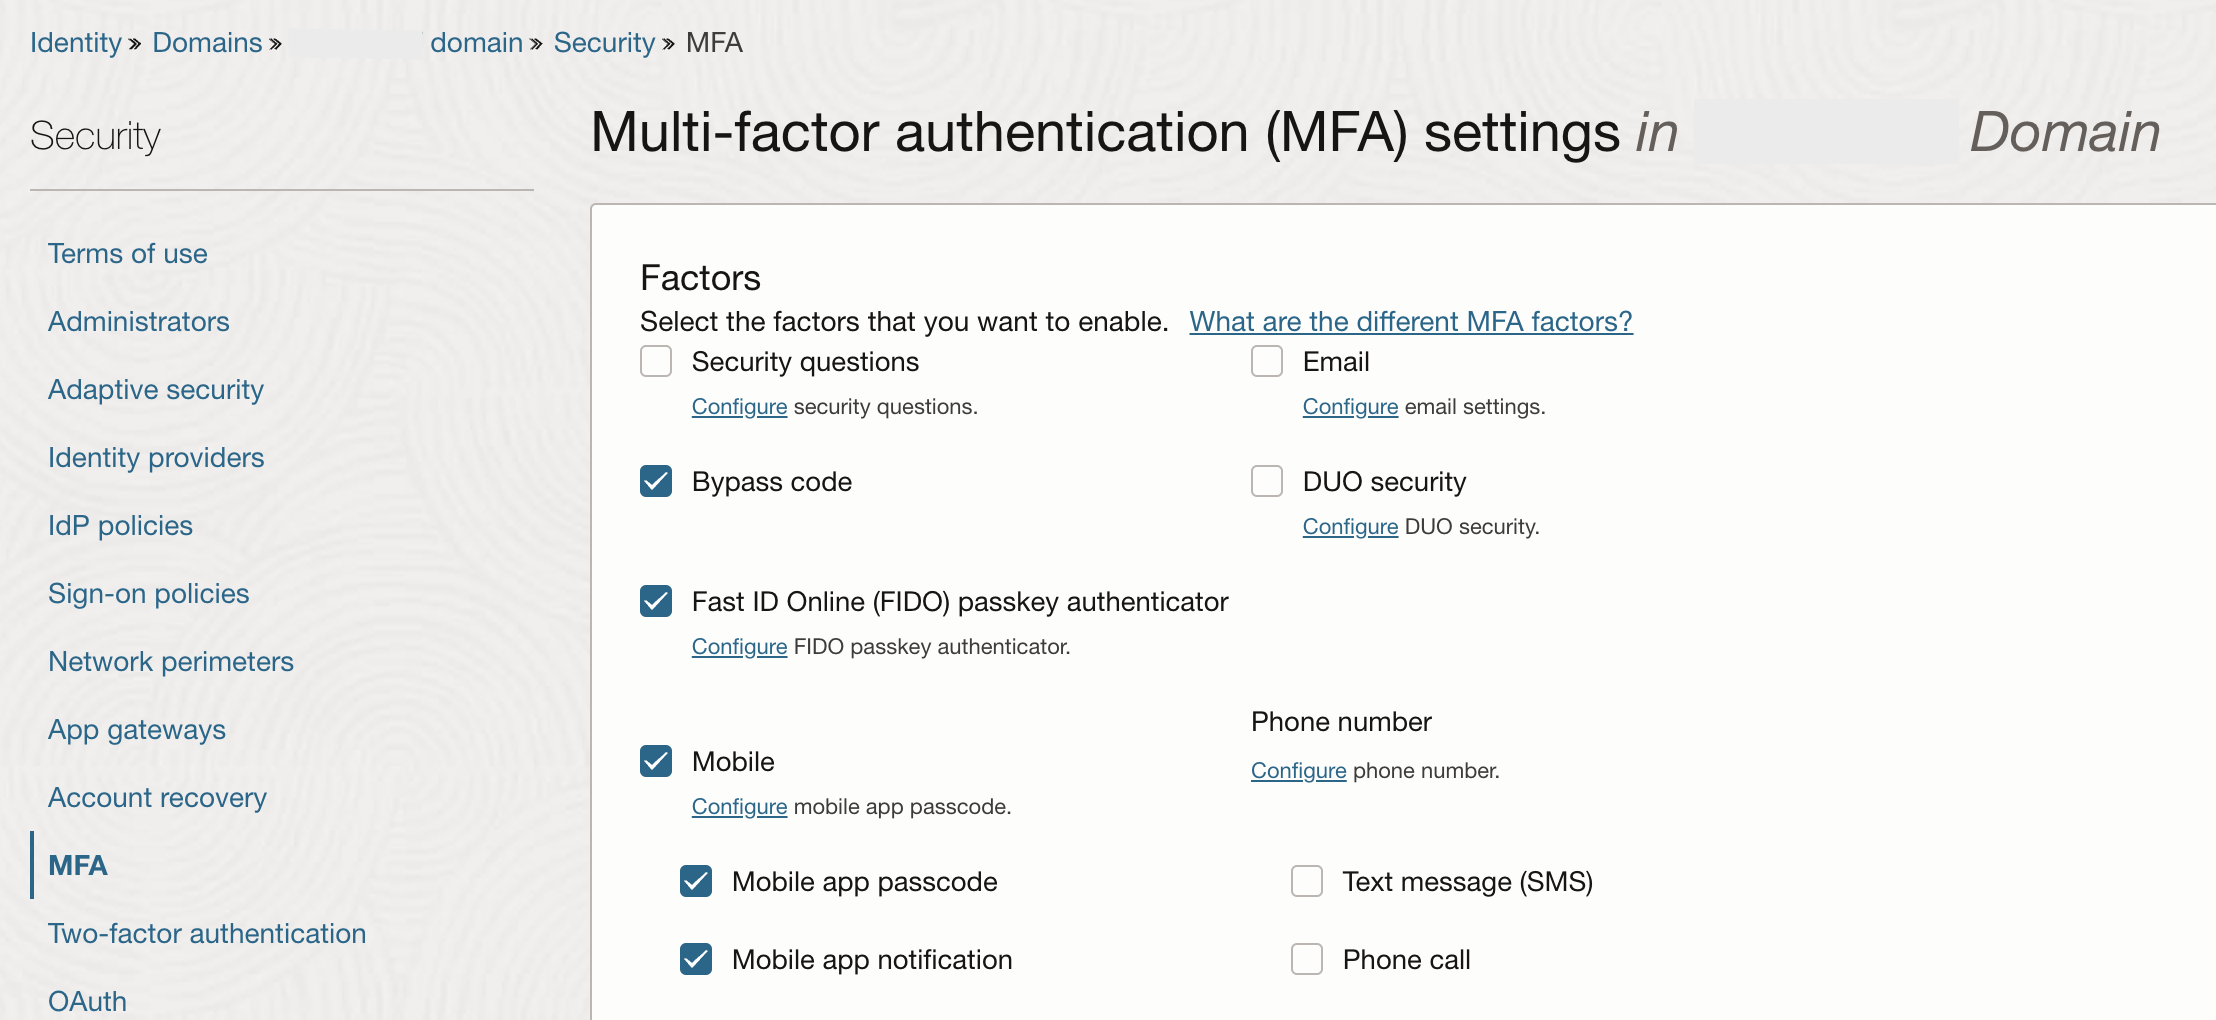
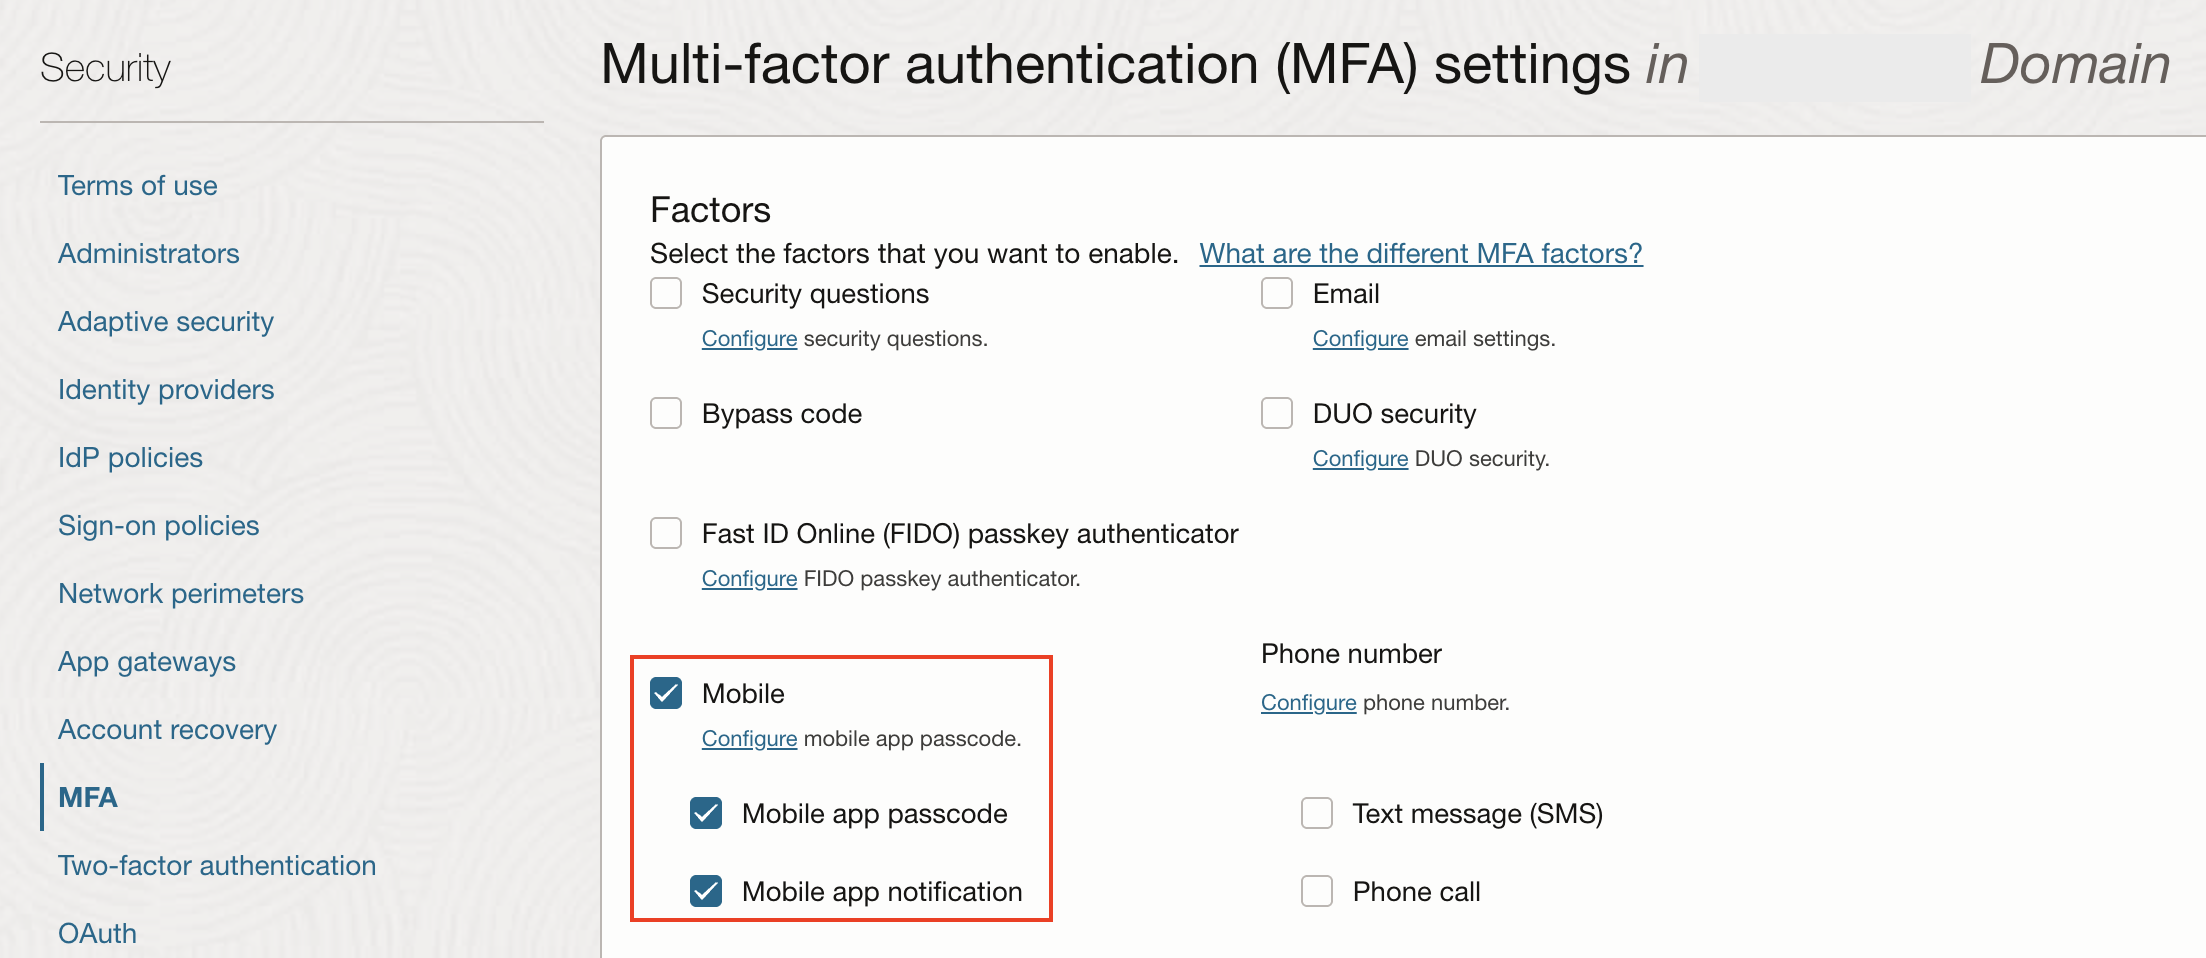
Updated the files as per feedback

diff --git a/federatedazure.md b/federatedazure.md
@@ -123,14 +123,16 @@ Search for Oracle Cloud Infrastructure Console and select it.
     
     <img src= "images/azure6.png" alt="Domain2" style="border: 1px solid black;">
 
-7. Click Get started and change the Provisioning Mode to **Automatic**.
+7. Click Get started:
 
-8. Under Admin Credentials, Enter the **Tenant URL**. The tenant URL is the OCI IAM Domain URL noted in the previous steps followed by **/admin/v1** 
-That is, the tenant URL will be in the following format : 
-    ```
-    https://<domainURL>/admin/v1
-    ```
-9. Enter the base 64 encoded secret token generated in the previous steps.
+    * Change the Provisioning Mode to **Automatic**.
+    
+    * Under Admin Credentials, Enter the **Tenant URL**. The tenant URL is the OCI IAM Domain URL noted in the previous steps followed by **/admin/v1** 
+    That is, the tenant URL will be in the following format : 
+        ```
+        https://<domainURL>/admin/v1
+        ```
+    * Enter the base 64 encoded secret token generated in the previous steps.
 
     <img src= "images/azure7.png" alt="Domain2" style="border: 1px solid black;">
 
@@ -212,7 +214,7 @@ Under Mappings, click **Provision Microsoft Entra ID Groups**
     * Value/Expression : Refer to the **Value** column from the User Mapping Table
     * Target Attribute: Refer to the value from the **OCI IAM Domain User Attribute Name** column from the User Mapping Table
     
-    The User Mapping table to map user attributes between OCI IAM and Okta is shown below. Ensure all of the mandatory attributes. Some attributes may have already been created by default, you do not have to add them.
+    The User Mapping table to map user attributes between OCI IAM and Entra ID is shown below. Ensure all of the mandatory attributes are added. Some attributes may have already been created by default, you do not have to add them.
 
     | Entra ID User Attribute Name     | OCI IAM Domain User Attribute Name | IAM Domain Attribute Type | Mapping Type | Attribute Value | Description | Mandatory Attribute |
     | ----------- | ----------- |-------|------|------|------|--------|
@@ -274,7 +276,7 @@ The Users and groups page now shows the users and groups you have chosen.
 
     <img src= "images/azure13.png" alt="Domain2" style="border: 1px solid black;">
 
-9. Click Provisioning in the left menu to provision the groups and users. The provisioning log shows the status.
+9. Click Provisioning in the left menu to see the provisioning details for the groups and users. The provisioning log shows the status.
 
     <img src= "images/azure14.png" alt="Domain2" style="border: 1px solid black;">
 
@@ -297,11 +299,13 @@ The Users and groups page now shows the users and groups you have chosen.
 4. Click the name of the identity domain in which you want to work.
 5. Click Security on the left navigation and then click **Identity providers.**
 6. Click **Export SAML metadata.**
+    <img src= "images/azuref1.png" alt="Domain2" style="border: 1px solid black;">
 7. Select **Download XML** under Metadata with self-signed certificates.
+    <img src= "images/azuref2.png" alt="Domain2" style="border: 1px solid black;">
 
 ### Configure SSO for the Enterprise application in Entra ID
 
-1. Under the Manage section, select **Single sign-on**
+8. Under the Manage section, select **Single sign-on**
 
     <img src= "images/azure17.png" alt="Domain2" style="border: 1px solid black;">
 
@@ -332,11 +336,11 @@ After you upload the file, the following Basic SAML Configuration fields are aut
 
 6. Click **Save**
 
-### Configure User Attributes and Claims
+### Configure User Attributes and Claims in Azure
 
-The Oracle Cloud Infrastructure Console enterprise application template is seeded with the required attributes, so there is no need to add any. However, you must make the following customizations:
+The Oracle Cloud Infrastructure Console enterprise application template in Entra ID is seeded with the required attributes, so there is no need to add any. However, you must make the following customizations:
 
-1. In the User Attributes & Claims section, click Edit in the upper-right corner. The Manage Claim panel appears.
+14. In the User Attributes & Claims section, click Edit in the upper-right corner. The Manage Claim panel appears.
 2. Next to the Name identifier value field, click Edit.
 3. Under Required claim, select **Unique User Identifier (Name ID).**
 4. Select **Email address** and change it to “Persistent.”
@@ -350,13 +354,13 @@ The Oracle Cloud Infrastructure Console enterprise application template is seede
 
 ### Download the Entra ID SAML Metadata Document
 
-1. In the SAML Signing Certificate section, click the download link next to Federation Metadata XML.
+21. In the SAML Signing Certificate section, click the download link next to Federation Metadata XML.
 
 2. Download this document and make a note of where you save it. You will upload this document to the IAM Domain Console in the next series of steps.
 
 ### Assign User Groups to the Application
 
-1. On the left navigation pane, under Manage, select Users and Groups.
+23. On the left navigation pane, under Manage, select Users and Groups.
 2. Click Add at the top of the Users and Groups list to open the Add Assignment pane.
 3. Click the Users and groups selector.
 4. Enter the name of the group you want to assign to the application into the Search by name or email address search box.
@@ -386,14 +390,14 @@ The Oracle Cloud Infrastructure Console enterprise application template is seede
 
 ## Task 7 : Configure Identity Provider (IdP) Policy
 
-11. Click **Add to IdP Policy Rule.**
+1. Click **Add to IdP Policy Rule.**
 12. Click **Default Identity Provider Policy** to open it, and from the context (three dots) menu choose **Edit IdP rule**
 13. Click **Assign identity providers** and then click **Entra ID Identity provider** to add it to the list.
 14. Click Save Changes.
 
 ## Task 8 : Configure Single Sign-on Policy
 
-15. Go back to Security and click **Sign-on policies.**
+1. Go back to Security and click **Sign-on policies.**
 16. Click **Default Identity Provider** Policy to open it, and in the Sign-on rules from the context (three dots) menu on the right, select **Edit IdP rule.**
 17. Select Entra ID
     <img src= "images/azure22.png" alt="Domain2" style="border: 1px solid black;">
@@ -423,7 +427,7 @@ To configure the part of JIT attribute Mapping through Postman, follow these ste
 
 #### Set the Environment Parameters in Postman
 
-1. Open Postman application, select **Environments**, and click **Import**.
+7. Open Postman application, select **Environments**, and click **Import**.
 
 2. On the Import screen, Import the file OCI IAM Identity Domain.postman_environment.json
 
@@ -436,7 +440,7 @@ To configure the part of JIT attribute Mapping through Postman, follow these ste
 
 #### Import the OCIM Federation Postman Collection
 
-1. On the Postman main page, select **Collection** and click Import.
+10. On the Postman main page, select **Collection** and click Import.
 
 2. In the Import dialog box, import the file OCIM Federation.postman_collection.json. 
 
@@ -444,7 +448,7 @@ To configure the part of JIT attribute Mapping through Postman, follow these ste
 
 #### Request an Access Token
 
-1. On the Collections tab, expand **OCIM Federation** and select **Obtain access_token (client credentials)**. Click Send.
+12. On the Collections tab, expand **OCIM Federation** and select **Obtain access_token (client credentials)**. Click Send.
 
 2. The access token is returned in the response from Oracle Identity Domain.
 
@@ -454,13 +458,13 @@ To configure the part of JIT attribute Mapping through Postman, follow these ste
 
 #### Get the Identity Provider Name
 
-1. Select Get the Identity Provider Name and click Send.
+16. Select Get the Identity Provider Name and click Send.
 
 2. Note the partnerName in the response for the type: SAML. The partnerName should be the Identity Provider configured in Identity Domain.
 
 #### Get the Identity Provider Id by passing the Identity Provider Name
 
-1. Select Get the Identity Provider Id by passing the Identity Provider Name.
+18. Select Get the Identity Provider Id by passing the Identity Provider Name.
 
 2. Replace partnerName in the URI with the partnerName from the 'Get the Identity Provider Name' section (see previous steps).
 
@@ -470,7 +474,7 @@ To configure the part of JIT attribute Mapping through Postman, follow these ste
 
 #### Update the JIT Attribute Mapping
 
-1. Select Update the JIT Attribute Mapping.
+22. Select Update the JIT Attribute Mapping.
 
 2. Replace the **<jitUserProvAttributes.value>** in the URL with the value from the ‘Get the Identity Provider Id by passing the Identity Provider Name’ section (see previous steps).
 
@@ -480,7 +484,7 @@ To configure the part of JIT attribute Mapping through Postman, follow these ste
 
 #### Confirm the JIT Mappings are Created
 
-1. Go to the OCI Identity Domain console, navigate to Identity Provider, and select the provider.
+25. Go to the OCI Identity Domain console, navigate to Identity Provider, and select the provider.
 
 2. Click Configure JIT and confirm the JIT mappings have been created.
 

diff --git a/user-management.md b/user-management.md
@@ -66,7 +66,7 @@ An email notification is sent to the email associated with that user account as 
 
 ## Task 2 - Search for a user
 
-5. Click Locations and select the location to search for the associated users in that location.
+1. Click Locations and select the location to search for the associated users in that location.
 Optionally, you can also search user(s) based on username, name or even user email address.
 
 6. Select users from the search result and perform actions on those user(s) by clicking More Actions.
@@ -77,7 +77,7 @@ Alternatively, click the Action column for a user row to perform actions on that
 
 ## Task 3 - Update a User Profile
 
-7. From the User Management page, Click **Locations** and select the location to search for the associated users in that location
+1. From the User Management page, Click **Locations** and select the location to search for the associated users in that location
 
 8. Click on the Username of the user that you created to open the User Profile page.
 
@@ -94,7 +94,7 @@ Alternatively, click the Action column for a user row to perform actions on that
 
 ## Task 4 - Assign ALLTASKS  or any non-admin group membership 
 
-11. To assign an additional group to the user, select Assign Groups.
+1. To assign an additional group to the user, select Assign Groups.
 
 12. Search for **ALLTASKS** or **FRONTDESK** group, select the group and click the Update button in the Assign Groups drawer.
 
@@ -104,7 +104,7 @@ Alternatively, click the Action column for a user row to perform actions on that
 
 During an employee or contractor transfer from one property or chain to another, OPERA Cloud Identity Management supports changing a user’s primary working location to a new location, so the new location’s administrator can manage the user.
 
-13. On the User Profile page for a user, click More Actions and then click Edit User Primary Work Location.
+1. On the User Profile page for a user, click More Actions and then click Edit User Primary Work Location.
 
     ![My Profile](images/nonfed9.png)
 
@@ -120,7 +120,7 @@ During an employee or contractor transfer from one property or chain to another,
 
 ## Task 6 - Assign user to IAMADMIN Administrator role
 
-17. From the homepage, Click **Administrator Roles**
+1. From the homepage, Click **Administrator Roles**
 
 18. Click the Locations filter chip in the search bar and select the location.
 
@@ -138,13 +138,13 @@ During an employee or contractor transfer from one property or chain to another,
 
 ## Task 7 - Deactivate User
 
-23. On the User profile page for a user, click More Actions and then click Deactivate User
+1. On the User profile page for a user, click More Actions and then click Deactivate User
 
 24. The user is deactivated and can be activated again.
 
 ## Task 8 - Delete User
 
-25. On the User profile page for a user, click More Actions and then click Delete User
+1. On the User profile page for a user, click More Actions and then click Delete User
 
 26. Click Delete to delete the user account.
 
@@ -153,7 +153,7 @@ During an employee or contractor transfer from one property or chain to another,
 
 ## Task 9 - Approve Oracle User’s data access request
 
-27. Log in to OPERA Cloud Identity Management portal.
+1. Log in to OPERA Cloud Identity Management portal.
 In the OPERA Cloud Identity Management portal, you will see a tile for Oracle Access Requests.
 
 28. Select the Oracle Access Requests tile.

diff --git a/federatedokta.md b/federatedokta.md
@@ -248,9 +248,9 @@ The group which was assigned to the OCI IAM application in Okta is now present i
 
     <img src= "images/okta22.png" alt="Okta" style="border: 1px solid black;">
 
-# Configuring Single Sign-on
+## Task 5 :  Configuring Single Sign-on
 
-## Download the SAML Metadata from OCI IAM Identity Domain
+### Download the SAML Metadata from OCI IAM Identity Domain
 
 1. Open a supported browser and enter the following Oracle Cloud Infrastructure (OCI) Console URL: https://cloud.oracle.com and sign in to the OCI console
 
@@ -270,9 +270,9 @@ The group which was assigned to the OCI IAM application in Okta is now present i
 
 7. Return to the identity domain overview by clicking the identity domain name in the breadcrumb navigation trail. Click Copy next to the Domain URL in Domain information and save the URL. This is the OCI IAM domain URL that you will use later.
 
-## Task 5 : Configure Single Sign On (SAML) settings in the Identity Provider (Okta)
+### Configure Single Sign On (SAML) settings in the Identity Provider (Okta)
 
-1. In the Okta admin console, Click on Applications under the navigation menu and go to the application that was previously created for provisioning.
+8. In the Okta admin console, Click on Applications under the navigation menu and go to the application that was previously created for provisioning.
 Note: You can also create a new application for SSO optionally.
 
 2. In the application details page of the application, click the **Sign On** tab
@@ -330,15 +330,19 @@ Note: You can also create a new application for SSO optionally.
 
 ## Task 8 : Configure Single Sign-on Policy
 
-4. Add IdP to Sign-on policy in IAM Domain:
+1. Add IdP to Sign-on policy in IAM Domain:
     * Navigate to Sign-on policies under Security.
     * Click on Default Sign-On Policy.
-    * Edit Default Sign-on Rule.
     * Under Sign-on rules, edit the Default Sign-On Rule.
-    * Under Conditions, Authenticating identity provider, add the Okta Identity Provider. 
+        <img src= "images/sso15.png" alt="SSO" style="border: 1px solid black;">
 
-    <img src= "images/sso11.png" alt="SSO" style="border: 1px solid black;">
+    * Under **Authenticating identity provider**, add the **Okta Identity Provider**. 
+    **Note**: Do not remove any already existing Authenticating identity providers.
 
+        <img src= "images/sso14.png" alt="SSO" style="border: 1px solid black;">
+
+
+    
 
 ## Task 9 - Test Single Sign-on
 
@@ -346,7 +350,7 @@ Note: You can also create a new application for SSO optionally.
     ```
     https://<hostname>/<enterprise Id>/operacloud
     ```
-2. You should see an option to sign in via Okta IdP. Click on the Okta IdP to sign-on
+2. You should see an option to sign in via **Okta IdP**. Click on the Okta IdP to sign-on
 
 3. Sign in with the Okta credentials for the test user created during our setup
 

diff --git a/mfa.md b/mfa.md
@@ -26,26 +26,16 @@
 
 ## Task 2 - Configure MFA and Sign-on Policy
 
-9. On the Domain Details page, click Security.
+1. On the Domain Details page, click Security.
 
 
 10. On the Security page, click MFA.
 
 
-11. Under Factors, select each of the factors required to access the identity domain. For an explanation of each factor, see [Configuring Authentication Factors](https://docs.oracle.com/en-us/iaas/Content/Identity/mfa/configure-authentication-factors.htm#configure-authentication-factors)
+11. Under Factors, you can select each of the factors required to access the identity domain. 
+Here, select **Mobile App Passcode** and **Mobile App notification**.
 
     <img src= "images/mfa2.png" alt="MFA" style="border: 1px solid black;">
-
-12. (Optional step) Click Configure for the MFA factors you have selected. 
-
-
-13. (Optional step) Set the Maximum number of enrolled factors users can configure.
-
-
-14. (Optional step) Use the Trusted devices section to configure trusted device settings. Similar to "remember my computer," trusted devices do not require the user to provide secondary authentication each time they sign in.
-
-
-15. (Optional step) Under Sign-in rules, set the maximum number of unsuccessful MFA attempts a user can make before being locked out.
 
 
 16. Click Save changes, and then confirm the change.
@@ -66,11 +56,10 @@
 
         <img src= "images/mfa3.png" alt="MFA" style="border: 1px solid black;">
 
-    * Under Actions, select Allow access. Select the prompt for an additional factor and select Specified factors only.
+    * Under Actions, select Allow access. Select the prompt for an additional factor and select Specified factors only. Then Select the factors, we recommend Mobile app passcode and Mobile app notification
 
-    * Select factors, we recommend Mobile app passcode, Mobile app notification, and Fast ID Online (FIDO) passkey authenticator.
+        <img src= "images/mfa6.png" alt="MFA" style="border: 1px solid black;">
 
-        <img src= "images/mfa4.png" alt="MFA" style="border: 1px solid black;">
 
     * Select Once per session or trusted device under Frequency.
 
@@ -90,4 +79,4 @@
 
 ## Task 3 - Test MFA
 
-18. Test MFA with the user who is part of the newly created group (the group added in the sign-on rule).
+1. Test MFA with the user who is part of the newly created group (the group added in the sign-on rule).
